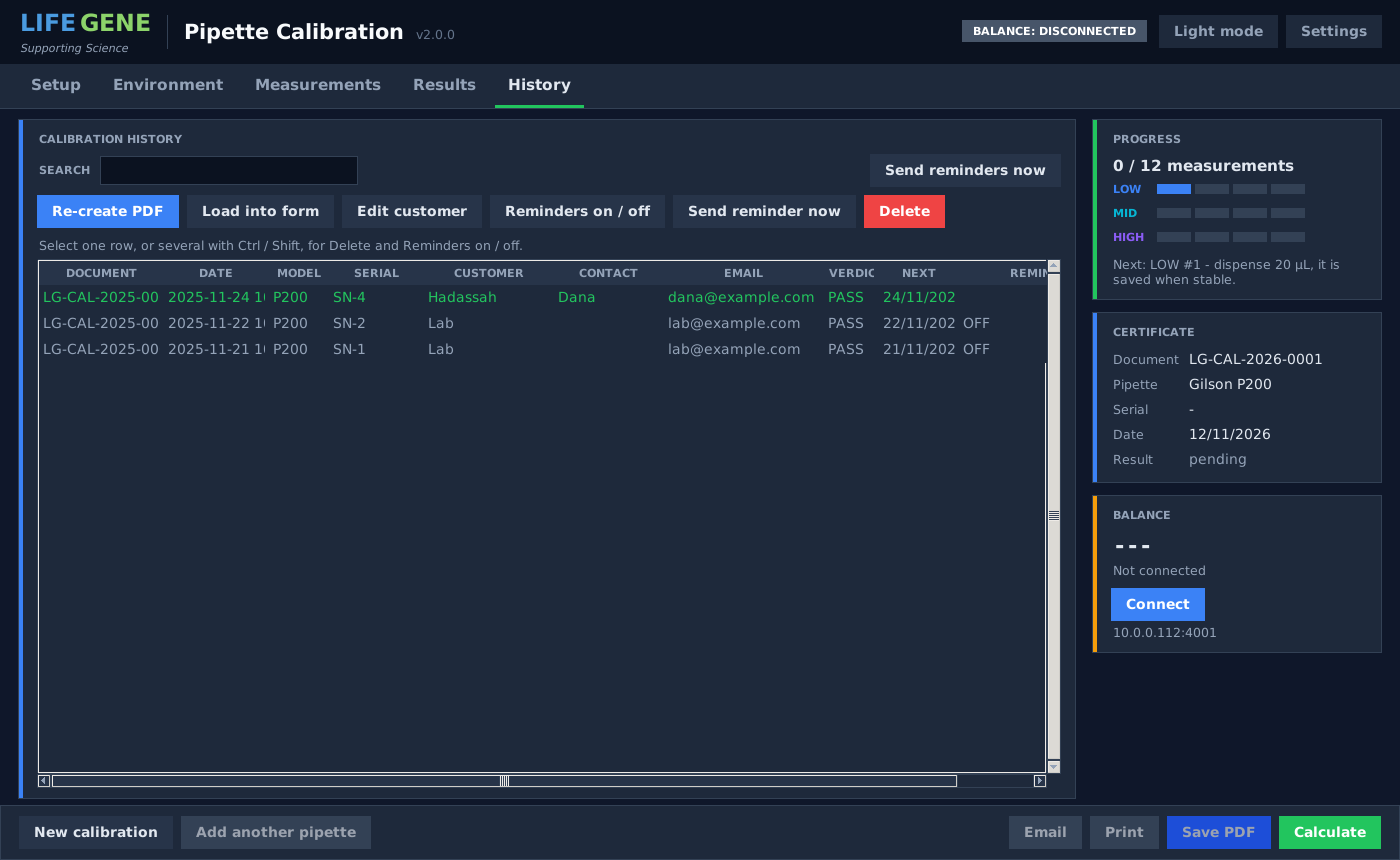
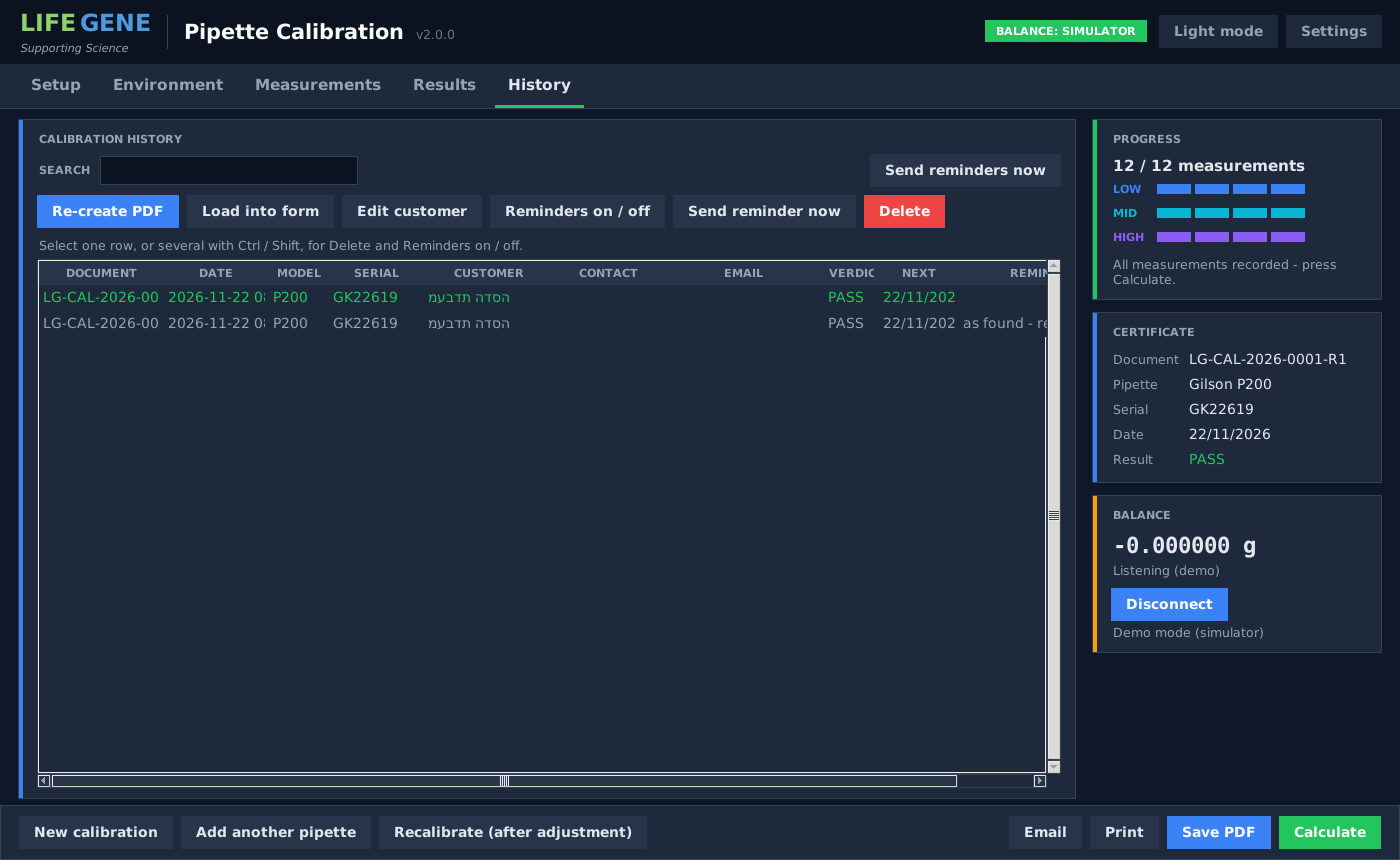
Recalibrate the same pipette after adjustment (as-found / as-left)
A footer button clears the measurements of the pipette just measured
and starts it again with everything else kept. The new run gets the
first document number with -R1 (-R2 ...), its certificate shows an
'As found: <verdict> (<document>) - adjusted and recalibrated' line, and
the first attempt is kept in the history marked as superseded, muted
for reminders and removed from the e-mail batch.

Claude-Session: https://claude.ai/code/session_01DKbKsLg9aKj7DGaBzZdUqk

diff --git a/pipette-calibration/pipette_cal/app.py b/pipette-calibration/pipette_cal/app.py
@@ -217,6 +217,7 @@ class App(tk.Tk):
         self.current_record: CalibrationRecord | None = None
         self.pdf_path: Path | None = None
         self.batch: list[CalibrationRecord] = []       # finished pipettes waiting for one e-mail
+        self.recal_of: CalibrationRecord | None = None  # as-found attempt the current run replaces
         self._next_date_auto = True
         self.current_tab = tk.StringVar(value=TABS[0])
 
@@ -464,6 +465,8 @@ class App(tk.Tk):
         Button(inner, self, "New calibration", self._new_calibration, "secondary").pack(side="left")
         self.btn_add = Button(inner, self, "Add another pipette", self._add_another_pipette, "secondary")
         self.btn_add.pack(side="left", padx=8)
+        self.btn_recal = Button(inner, self, "Recalibrate (after adjustment)", self._recalibrate, "secondary")
+        self.btn_recal.pack(side="left")
         self.btn_calc = Button(inner, self, "Calculate", self._calculate, "success")
         self.btn_calc.pack(side="right")
         self.btn_pdf = Button(inner, self, "Save PDF", self._save_pdf, "primary")
@@ -1220,7 +1223,9 @@ class App(tk.Tk):
             place=self.cfg.place_of_calibration, comments=self.v_comments.get(),
             series=self.series(), procedure=self.cfg.procedure, logo_path=self._logo_path(),
             signature_path=self._signature_path(), signer_name=self.cfg.signer_name,
-            customer=self.v_customer.get().strip())
+            customer=self.v_customer.get().strip(),
+            as_found_document=self.recal_of.document_no if self.recal_of else "",
+            as_found_verdict=self.recal_of.verdict if self.recal_of else "")
 
     def _calculate(self):
         try:
@@ -1262,9 +1267,15 @@ class App(tk.Tk):
                                 customer=payload["customer"], customer_email=payload["customer_email"],
                                 next_calibration=info.next_calibration_date.isoformat(),
                                 no_reminder=self.v_no_reminder.get(), contact_name=payload["contact_name"])
+        if self.recal_of:
+            payload["as_found_document"] = self.recal_of.document_no
+            payload["as_found_verdict"] = self.recal_of.verdict
         try:
             self.history.add(rec)
             self.current_record = rec
+            if self.recal_of and self.recal_of.id is not None:
+                self.history.mark_superseded(self.recal_of.id, rec.document_no)
+                # keep self.recal_of: Save PDF / Print of this result still need the as-found line
         except Exception as exc:  # noqa: BLE001 - duplicate document number etc.
             log.warning("history: %s", exc)
             messagebox.showwarning("History", f"The calibration was not stored in the history:\n{exc}\n\n"
@@ -1397,7 +1408,7 @@ class App(tk.Tk):
 
     def _refresh_output_buttons(self):
         have = self.result is not None
-        for b in (self.btn_pdf, self.btn_print, self.btn_email, self.btn_add):
+        for b in (self.btn_pdf, self.btn_print, self.btn_email, self.btn_add, self.btn_recal):
             b.set_enabled(have or (b is self.btn_email and bool(self.batch)))
         if self._ready("batch_info"):
             if self.batch:
@@ -1417,6 +1428,7 @@ class App(tk.Tk):
             self.batch.append(self.current_record)
         self.weights = {lv: [] for lv in LEVELS}
         self.result, self.pdf_path, self.current_record = None, None, None
+        self.recal_of = None
         self._auto_armed, self._auto_run = True, []
         self.v_serial.set("")
         self.v_comments.set("")
@@ -1431,6 +1443,39 @@ class App(tk.Tk):
         self.after(100, lambda: messagebox.showinfo(
             "Batch", f"{len(self.batch)} pipette(s) kept for the e-mail. Enter the next serial number, "
                      "measure, and press Email when the last one is done.", parent=self))
+
+    def _recalibrate(self):
+        """The pipette just measured failed (or needs a repeat): keep everything
+        about it, clear the 12 weights and measure again under a document
+        number derived from the first one (…-R1). The first attempt stays in
+        the history as the as-found result, marked as superseded."""
+        if not self.result or not self.current_record:
+            messagebox.showinfo("Recalibrate", "Calculate the current pipette first.", parent=self)
+            return
+        verdict = self.result.verdict
+        if not messagebox.askyesno(
+                "Recalibrate", f"Result of {self.current_record.document_no}: {verdict}.\n\n"
+                               "Start a new measurement of the SAME pipette after adjustment?\n"
+                               "The current result is kept in the history as the as-found result and "
+                               "will not be used for reminders; the new certificate gets the number "
+                               f"{self.history.recalibration_document_number(self.current_record.document_no)}.",
+                parent=self, icon="question"):
+            return
+        self.recal_of = self.current_record
+        if self.current_record in self.batch:
+            self.batch.remove(self.current_record)
+        self.v_doc.set(self.history.recalibration_document_number(self.current_record.document_no))
+        self.weights = {lv: [] for lv in LEVELS}
+        self.result, self.pdf_path, self.current_record = None, None, None
+        self._auto_armed, self._auto_run, self._auto_above_since = True, [], None
+        self.verdict_label.config(text="Recalibration in progress", fg=self.p["amber"])
+        self.verdict_sub.config(text=f"As found: {verdict} ({self.recal_of.document_no}). "
+                                     "Measure the 12 drops again after adjusting the pipette.", fg=self.p["muted"])
+        self._refresh_slots()
+        self._refresh_sidebar()
+        self._refresh_output_buttons()
+        self._refresh_auto_labels()
+        self._show_tab("Measurements")
 
     def _batch_records(self) -> list[CalibrationRecord]:
         """Everything that goes into the e-mail: the batch plus the current result."""
@@ -1454,6 +1499,7 @@ class App(tk.Tk):
         self.weights = {lv: [] for lv in LEVELS}
         self.result, self.pdf_path, self.current_record = None, None, None
         self.batch = []
+        self.recal_of = None
         self._auto_armed, self._auto_run = True, []
         self._refresh_auto_labels()
         self.v_serial.set("")
@@ -1503,7 +1549,9 @@ class App(tk.Tk):
                 sent_at, sent_to = mark
                 reminder = (f"skipped {sent_at[:10]}" if sent_to.startswith("not sent") else
                             f"sent {sent_at[:10]} to {sent_to.split(';')[0]}" + (" (manual)" if "(manual)" in sent_to else ""))
-            if rec.no_reminder:
+            if rec.payload.get("superseded_by"):
+                reminder = f"as found - replaced by {rec.payload['superseded_by']}"
+            elif rec.no_reminder:
                 reminder = "OFF" + (f"  ({reminder})" if reminder else "")
             nxt = rec.next_calibration or rec.payload.get("next_calibration_date", "")
             try:
@@ -1660,7 +1708,8 @@ class App(tk.Tk):
             next_calibration_date=date.fromisoformat(pl["next_calibration_date"]),
             serial_no=pl["serial_no"], tip=pl["tip"], operator=pl.get("operator", ""),
             balance_id=pl.get("balance_id", ""), place=pl.get("place", ""), comments=pl.get("comments", ""),
-            series=series, procedure=pl.get("procedure", ""), customer=pl.get("customer", ""))
+            series=series, procedure=pl.get("procedure", ""), customer=pl.get("customer", ""),
+            as_found_document=pl.get("as_found_document", ""), as_found_verdict=pl.get("as_found_verdict", ""))
         return info, result
 
     def _history_pdf(self):

diff --git a/pipette-calibration/pipette_cal/storage.py b/pipette-calibration/pipette_cal/storage.py
@@ -11,6 +11,7 @@ from __future__ import annotations
 
 import dataclasses
 import json
+import re
 import logging
 import os
 import sqlite3
@@ -263,6 +264,26 @@ class History:
             n += 1
         self._conn.commit()
         return n
+
+    def mark_superseded(self, record_id: int, by_document_no: str) -> None:
+        """A failed (as-found) attempt replaced by a recalibration after adjustment:
+        excluded from reminders and labelled in the history."""
+        row = self._conn.execute("SELECT payload FROM calibrations WHERE id = ?", (record_id,)).fetchone()
+        if not row:
+            return
+        payload = json.loads(row["payload"])
+        payload["superseded_by"] = by_document_no
+        self._conn.execute("UPDATE calibrations SET payload = ?, no_reminder = 1 WHERE id = ?",
+                           (json.dumps(payload), record_id))
+        self._conn.commit()
+
+    def recalibration_document_number(self, original: str) -> str:
+        """LG-CAL-2026-0003 -> LG-CAL-2026-0003-R1 (R2, R3 ... if those exist already)."""
+        base = re.sub(r"-R\d+$", "", original.strip())
+        n = 1
+        while self._conn.execute("SELECT 1 FROM calibrations WHERE document_no = ?", (f"{base}-R{n}",)).fetchone():
+            n += 1
+        return f"{base}-R{n}"
 
     def set_no_reminder(self, record_ids: list[int], value: bool) -> None:
         if record_ids:

diff --git a/pipette-calibration/pipette_cal/certificate.py b/pipette-calibration/pipette_cal/certificate.py
@@ -119,6 +119,8 @@ class CertificateInfo:
     series: str = "Classic"          # PIPETMAN series: Classic / Neo / L / Multi
     procedure: str = ""              # "Standard" line, printed when set
     customer: str = ""               # customer / department, printed when set
+    as_found_document: str = ""      # for a recalibration after adjustment: the as-found attempt
+    as_found_verdict: str = ""
     logo_path: Path | None = None
     signature_path: Path | None = None   # image of the operator's signature (optional)
     signer_name: str = ""                # printed next to the signature; defaults to operator
@@ -369,6 +371,9 @@ def build_certificate(path: str | Path, info: CertificateInfo, result: Calibrati
                  ("Measurements:", f"{len(result.levels[0].weights_g)} per test volume"), ("Mass unit:", "g")]
     if info.procedure.strip():
         cal_pairs.append(("Standard:", info.procedure.strip()))
+    if info.as_found_document.strip():
+        cal_pairs.append(("As found:", f"{info.as_found_verdict or '-'} ({info.as_found_document}) - "
+                                       "adjusted and recalibrated"))
     cal_pairs.append(("Recommended next calibration:", info.next_calibration_date.strftime(DATE_FMT)))
     cols = Table([[
         _info_column("Pipettes data", [

diff --git a/pipette-calibration/tests/test_reminders.py b/pipette-calibration/tests/test_reminders.py
@@ -189,3 +189,20 @@ def test_certificate_email_is_hebrew_and_personal():
     b.verdict = "FAIL"
     subject, body, _ = certificate_email([a, b], "", "מעבדת הדסה", "naama@lifegene.co.il")
     assert "2 פיפטורים" in subject and body.startswith("שלום רב,") and "לא תקין (FAIL)" in body
+
+
+def test_recalibration_numbers_and_supersede(tmp_path):
+    h = History(tmp_path / "h.sqlite")
+    a = _rec("LG-CAL-2026-0003", "GK1", "2026-11-22", "2027-11-22")
+    a.verdict = "FAIL"
+    h.add(a)
+    assert h.recalibration_document_number("LG-CAL-2026-0003") == "LG-CAL-2026-0003-R1"
+    b = _rec("LG-CAL-2026-0003-R1", "GK1", "2026-11-22", "2027-11-22")
+    h.add(b)
+    assert h.recalibration_document_number("LG-CAL-2026-0003-R1") == "LG-CAL-2026-0003-R2"
+    h.mark_superseded(a.id, b.document_no)
+    old = h.get(a.id)
+    assert old.no_reminder is True and old.payload["superseded_by"] == "LG-CAL-2026-0003-R1"
+    # only the recalibration is considered for reminders
+    assert [r.document_no for r in h.due_for_reminder(30, date(2027, 11, 1))] == ["LG-CAL-2026-0003-R1"]
+    h.close()

diff --git a/pipette-calibration/tests/test_certificate_and_storage.py b/pipette-calibration/tests/test_certificate_and_storage.py
@@ -88,3 +88,11 @@ def test_certificate_with_hebrew_customer_and_comments(tmp_path):
     data = build_certificate(tmp_path / "he.pdf", info, res).read_bytes()
     assert data.count(b"/Type /Page") - data.count(b"/Type /Pages") == 2
     assert b"DejaVuSans" in data                                # the Unicode font is embedded
+
+
+def test_certificate_shows_as_found_result(tmp_path):
+    res = _result()
+    info = CertificateInfo("LG-CAL-2026-0003-R1", date(2026, 11, 22), date(2027, 11, 22), "GK1", "DF200",
+                           as_found_document="LG-CAL-2026-0003", as_found_verdict="FAIL")
+    data = build_certificate(tmp_path / "r1.pdf", info, res).read_bytes()
+    assert data.count(b"/Type /Page") - data.count(b"/Type /Pages") == 2

diff --git a/pipette-calibration/README.md b/pipette-calibration/README.md
@@ -107,6 +107,12 @@ without Outlook the default mail client opens instead.
    **Add another pipette** keeps the finished pipette aside and starts the
    next one for the same customer; Email then attaches one PDF per pipette
    in a single message (Save PDF / Print handle all of them too).
+   **Recalibrate (after adjustment)** is for a pipette that failed: adjust
+   it and measure the same pipette again. Everything stays filled in, the
+   new run gets the number of the first one with "-R1" (then -R2 ...), the
+   certificate carries an "As found: FAIL (LG-CAL-...)" line, and the first
+   attempt stays in the history marked "as found - replaced by ...", excluded
+   from reminders and from the e-mail.
 5. **History** - search past calibrations (also by customer), re-create a
    PDF, load one back into the form, **Delete** one or several rows
    (Ctrl / Shift to multi-select, with confirmation), or switch the
